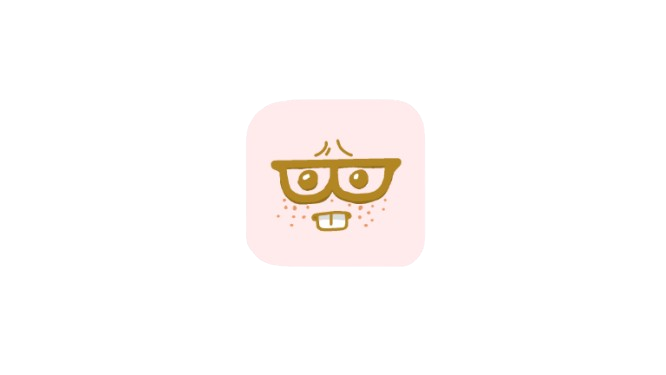
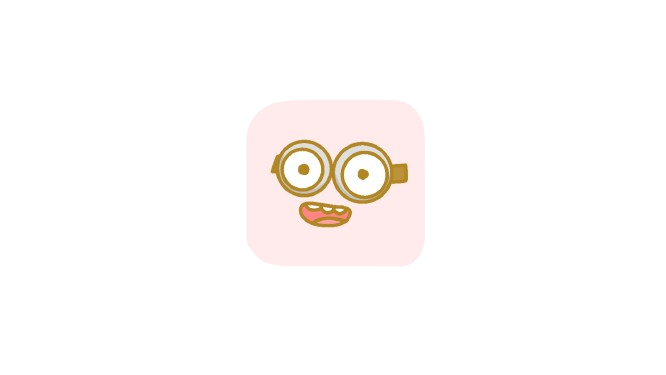
Hash Map for Images ( Face, Glasses, Shirt)

Changed region(s): [[0.3904, 0.352, 0.6306, 0.616]]

diff --git a/src/game/scenes/DressUp.ts b/src/game/scenes/DressUp.ts
@@ -11,6 +11,11 @@ export class DressUp extends Scene {
     private layers: { [key: string]: Phaser.GameObjects.Image } = {};
     private selectedLayer: string | null = null;
 
+    private imageMap: { [key: string]: Phaser.GameObjects.Image } = {}; 
+    private selectedFace: string | null = null;
+    private selectedGlasses: string | null = null;
+    private selectedShirt: string | null = null;
+
     constructor() {
         super('DressUp');
     }
@@ -19,7 +24,7 @@ export class DressUp extends Scene {
         this.load.image('dressUpBackground', 'assets/DU_BKG.png');
         this.load.image('menu', 'assets/DU_MenuBase.png');
         this.load.image('banana', 'assets/Banana.png');
-        
+
         //Cats
         this.load.image('face', 'assets/Face.png');
         this.load.image('glasses', 'assets/Glasses.png');
@@ -30,6 +35,12 @@ export class DressUp extends Scene {
             this.load.image(`Face${i}`, `assets/Face${i}.png`);
             this.load.image(`Glasses${i}`, `assets/Glasses${i}.png`);
             this.load.image(`Shirt${i}`, `assets/Shirt${i}.png`);
+
+
+             // Map buttons to DU images
+             this.load.image(`DU_Face${i}`, `assets/DU_Face${i}.png`);
+             this.load.image(`DU_Glasses${i}`, `assets/DU_Glasses${i}.png`);
+             this.load.image(`DU_Shirt${i}`, `assets/DU_Shirt${i}.png`);
         }
 
         this.load.image('nextButton', 'assets/nextButton.png');
@@ -86,15 +97,29 @@ export class DressUp extends Scene {
         // make Button
         const createCategoryButtons = (category: string, positions: { x: number, y: number }[]) => {
             const buttons: Phaser.GameObjects.Image[] = [];
+            let currentButton: Phaser.GameObjects.Image | null = null;
+
             for (let i = 1; i <= 4; i++) {
                 const button = this.add.image(positions[i - 1].x, positions[i - 1].y, `${category}${i}`);
-                button.setInteractive().setVisible(false).setDisplaySize(400, 250);
+                button.setInteractive({ pixelPerfect: true }).setVisible(false).setScale(0.7);
+                button.on('pointerdown', () => {
+                    console.log(`Clicked ${category}${i}`);
+                    this.toggleImage(`${category}${i}`);
+
+                    if (currentButton) {
+                        currentButton.clearTint();
+                    }
+
+                    button.setTint(0xe1a8a0);
+                    currentButton = button;
+                    
+                });
                 buttons.push(button);
             }
             return buttons;
         };
 
-        // Buttons for cat
+        // Buttons for cat call function above
         this.faceButtons = createCategoryButtons('Face', buttonPositions.face);
         this.glassesButtons = createCategoryButtons('Glasses', buttonPositions.glasses);
         this.shirtButtons = createCategoryButtons('Shirt', buttonPositions.shirt);
@@ -103,6 +128,25 @@ export class DressUp extends Scene {
         const face = this.add.image(596.5, 344, 'face').setScale(0.16).setInteractive();
         const glasses = this.add.image(597, 414, 'glasses').setScale(0.16).setInteractive();
         const shirt = this.add.image(596.5, 488, 'shirt').setScale(0.16).setInteractive();
+
+        //Maps for Image
+
+        this.imageMap = {
+            'Face1': this.add.image(274, 469, 'DU_Face1').setVisible(false).setScale(0.4),
+            'Face2': this.add.image(274, 469, 'DU_Face2').setVisible(false).setScale(0.4),
+            'Face3': this.add.image(274, 469, 'DU_Face3').setVisible(false).setScale(0.4),
+            'Face4': this.add.image(274, 469, 'DU_Face4').setVisible(false).setScale(0.4),
+
+            'Glasses1': this.add.image(274, 469, 'DU_Glasses1').setVisible(false).setScale(0.4),
+            'Glasses2': this.add.image(274, 469, 'DU_Glasses2').setVisible(false).setScale(0.4),
+            'Glasses3': this.add.image(274, 469, 'DU_Glasses3').setVisible(false).setScale(0.4),
+            'Glasses4': this.add.image(274, 469, 'DU_Glasses4').setVisible(false).setScale(0.4),
+
+            'Shirt1': this.add.image(274, 469, 'DU_Shirt1').setVisible(false).setScale(0.4),
+            'Shirt2': this.add.image(274, 469, 'DU_Shirt2').setVisible(false).setScale(0.4),
+            'Shirt3': this.add.image(274, 469, 'DU_Shirt3').setVisible(false).setScale(0.4),
+            'Shirt4': this.add.image(274, 469, 'DU_Shirt4').setVisible(false).setScale(0.4)
+        };
 
         // Cat logic
         const setCategory = (category: string) => {
@@ -120,25 +164,43 @@ export class DressUp extends Scene {
         };
 
         // Mouse Interactions
-        
+        setCategory('face');
+        face.setTint(0xcc7577); 
         face.on('pointerdown', () => {
             setCategory('face');
-            face.setTint(0xff69b4); 
+            face.setTint(0xcc7577); 
+             
         });
 
         // TODO:(Change to Hat)
         glasses.on('pointerdown', () => {
             setCategory('glasses');
-            glasses.setTint(0xff69b4); 
+            glasses.setTint(0xcc7577); 
+            
         });
 
       
         shirt.on('pointerdown', () => {
             setCategory('shirt');
-            shirt.setTint(0xff69b4); 
+            shirt.setTint(0xcc7577); 
+            
         });
 
     
         new NextButton(this, 800, 654, 'Peel');
     }
+
+   
+
+    private toggleImage(imageKey: string) {
+        for (const key in this.imageMap) {
+            this.imageMap[key].setVisible(false);
+        }
+        if (this.imageMap[imageKey]) {
+            this.imageMap[imageKey].setVisible(true);
+        }
+    }
+
+
+
 }
